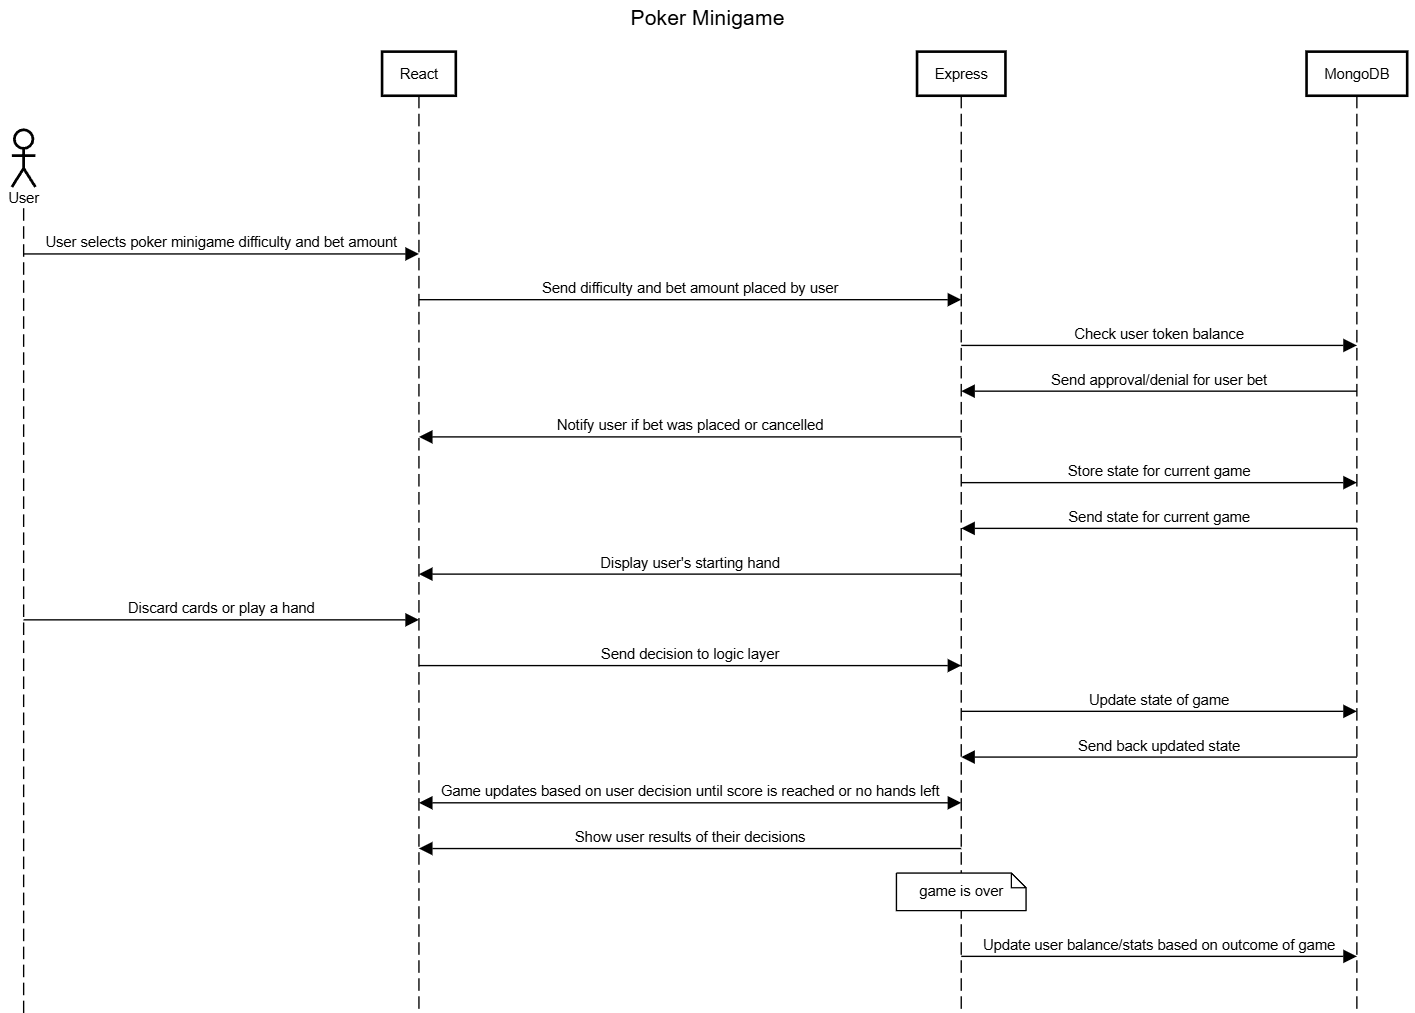
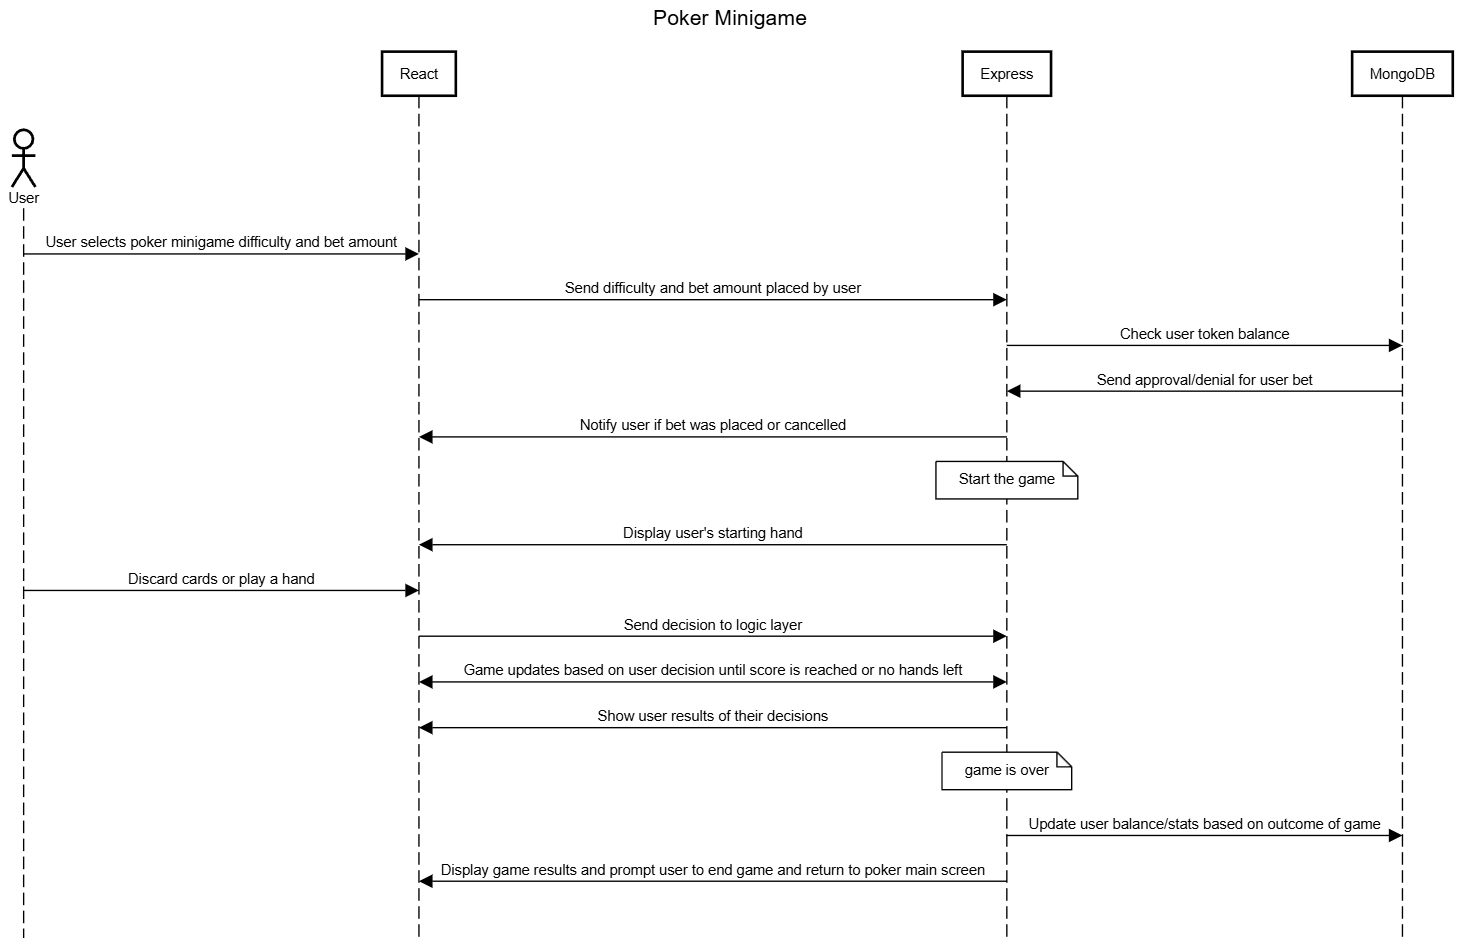
Architecture diagram updates

diff --git a/Documents/architecture.md b/Documents/architecture.md
@@ -40,39 +40,34 @@ flowchart LR
 
 ## Sequence Diagrams
 ### Core Feature: Blackjack
-* We will incorporate a blackjack game where users can bet with money or tokens. They will have the ability to stand, double down, hit, or split while each each win/lose game will be recorded into your account. 
+* Users can bet on a blackjack game that uses their real available balance. They have the ability to play a basic game of blackjack and be rewarded for winning or lose their money if the dealer wins. Their balance and stats are updated after each game.
 ![](Images/blackjack_sequence.png)
 
-Currently the betting feature for blackjack is not yet implemented. The top portion of the sequence diagram that shows bets being placed and checks being made on the users balance will *eventually* be implemented exactly like this so it will reflect our working system in the future. Also the very last interaction in the diagram shows the balance being updated which doesn't happen yet but the user's stats are currently being updated based on a win or a loss.
-
 ### Create Account
+* Users can create an account to access the games on the site.
 ![](Images/create_account_sequence.png)
 
 ### Core Feature: Login
-* Returning users will have to login where their activity will be saved under their unique username.
+* Users can login to their existing account to keep their progress.
 ![](Images/login_sequence.png)
 
 ### Core Feature: Safe Gambling (Notifications)
-* As the users play the game, behind the scenes, the game is iterating through currently active users and checking whether they need to receive notifications. If they do, an iteraction between the user and UI must be completed in order for the user's notification clock to be reset. 
-![](Images/safe_gambling_notifications.png)
-
-This sequence diagaram is for a future feature. This diagram represents how we plan to implement this feature but may change when we actually implement it.
-
+* Some standard safe gambling reminders are sent to anyone currently on the site after a certain amount of time. The notifications display for a few seconds before disappearing.
 ### Safe Gambling - Notifications
 ![](Images/safe_gambling_notifications.png)
 
-Currently there is no calls to the database for this feature. The safe gambling warnings are just simply on a timer at the Express layer of this diagram. In the future we plan to implement the database interaction to send users warnings that relate to their user info/stats. For the current state of the project, the reminders are simply on a timer.
-
 ### Core Feature: Teaching Fundamentals
-* As the user seeks help and tutorials from the game, we will keep track of which ones the user has completed in order to save their progress. 
+* Users can access a tutorial section that gives information on how to play the games available on the site.
 ![](Images/teaching_sequence.png)
 
-Everything in this sequence diagram is working as described in our system up until the point where a user interacts with a tutorial. They are able to view it and see any information it displays and interact with it, but nothing is logged in the database yet in terms of marking a tutorial as completed. This will be something we add in the future.
-
 ### User Stats - Safe Gambling
+* Users time and money limits are tracked to ensure safe gambling practices. They will be locked out for the day if they hit these limits.
 ![](Images/user_stats_safe_gambling_sequence.png)
 
-This section of the Safe Gambling feature is not yet implemented. This is something we will implement in the future of the project.
-
 ### User Stats
+* User stats like wins or losses are tracked and they can view it from their profile or leaderboard section.
 ![](Images/user_stats_sequence.png)
+
+### Poker Minigame
+* Users can play a poker minigame similar to Balatro but heavily simplified. They can choose a difficulty and place a bet. If they hit the target score after they run out of hands to play, they win and get rewarded based on bet size and difficulty.
+![](Images/poker_minigame_sequence.png)
